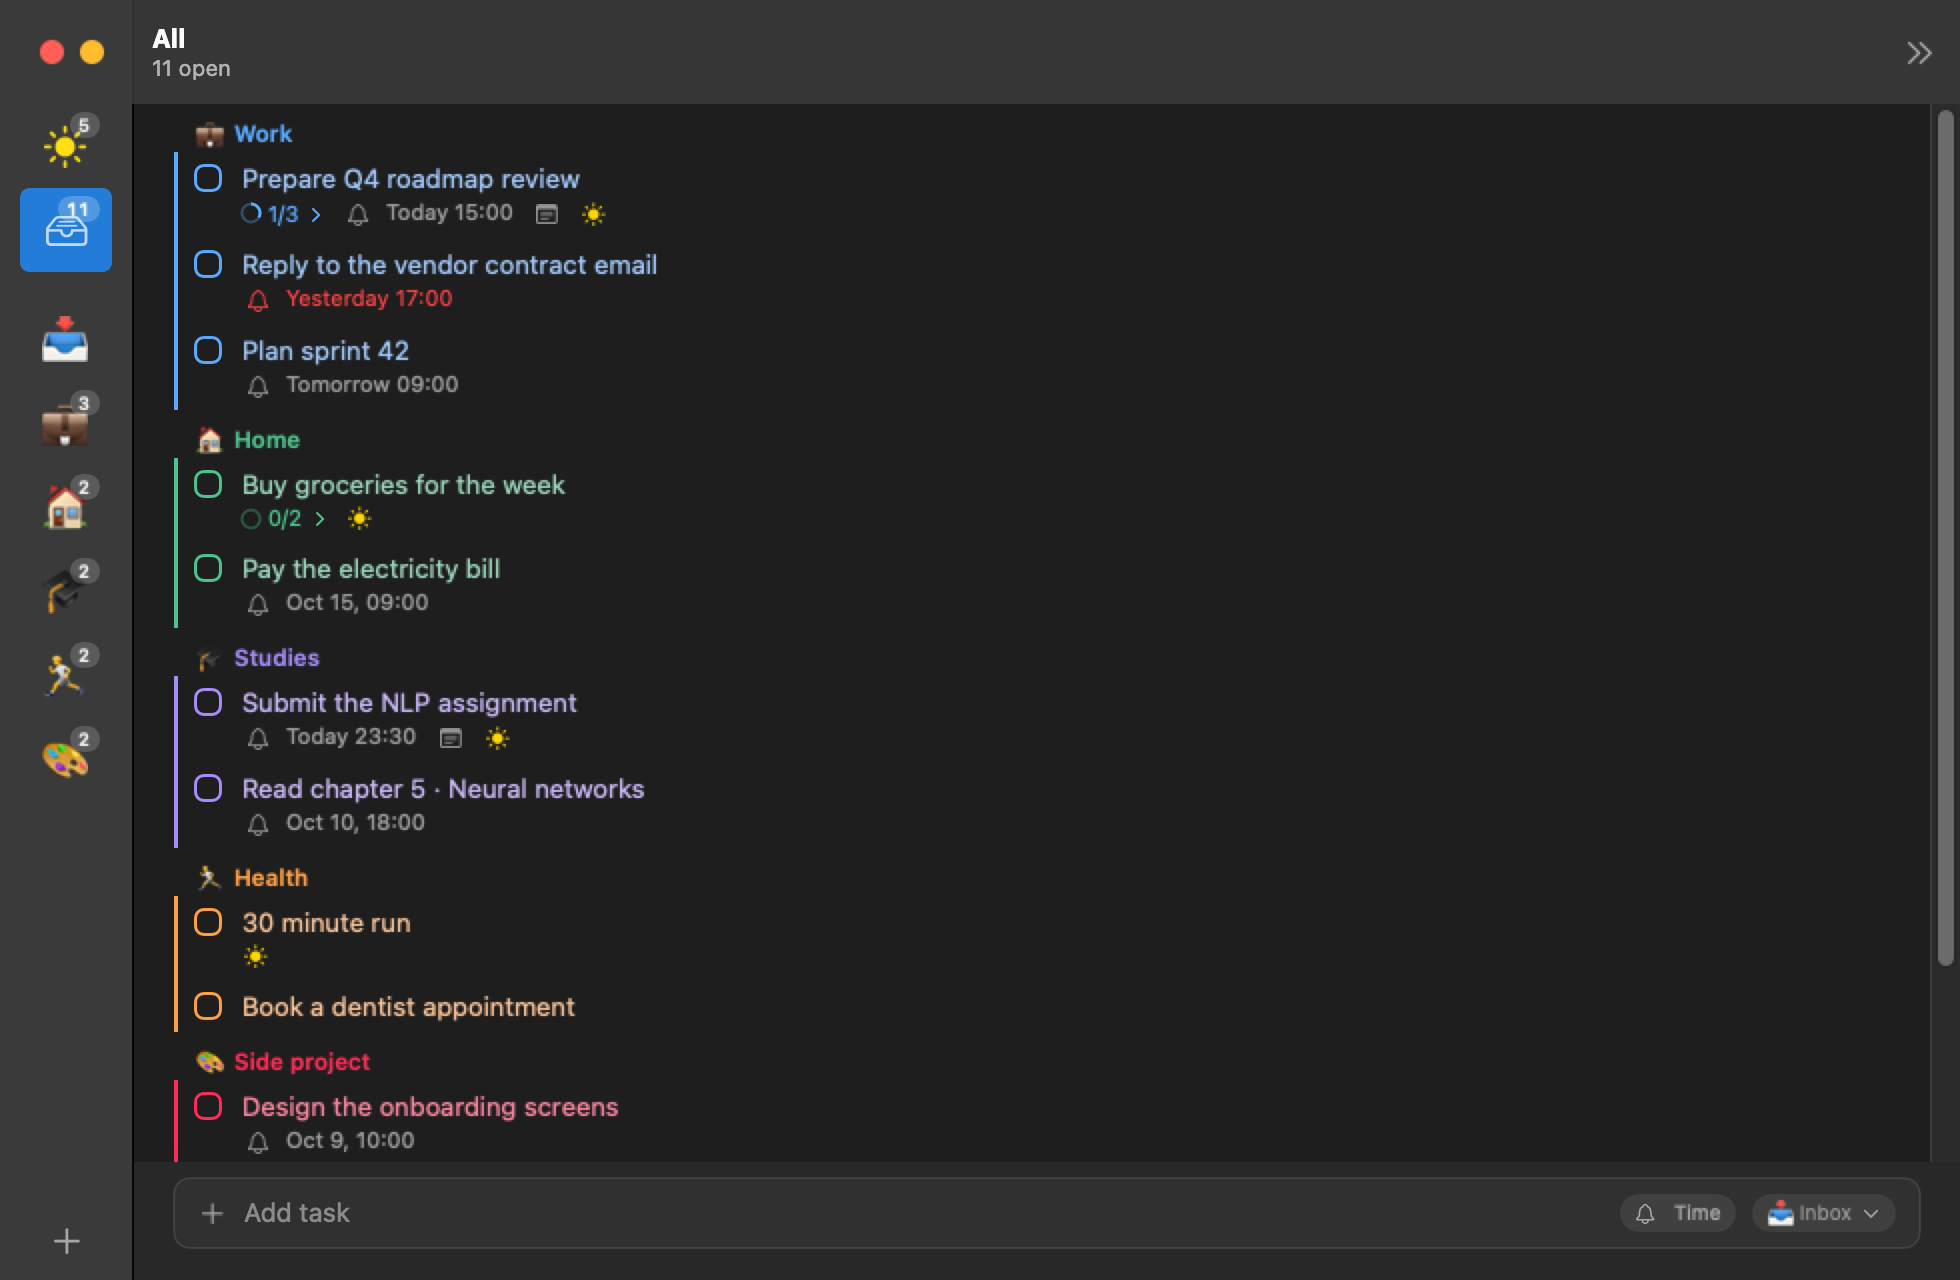
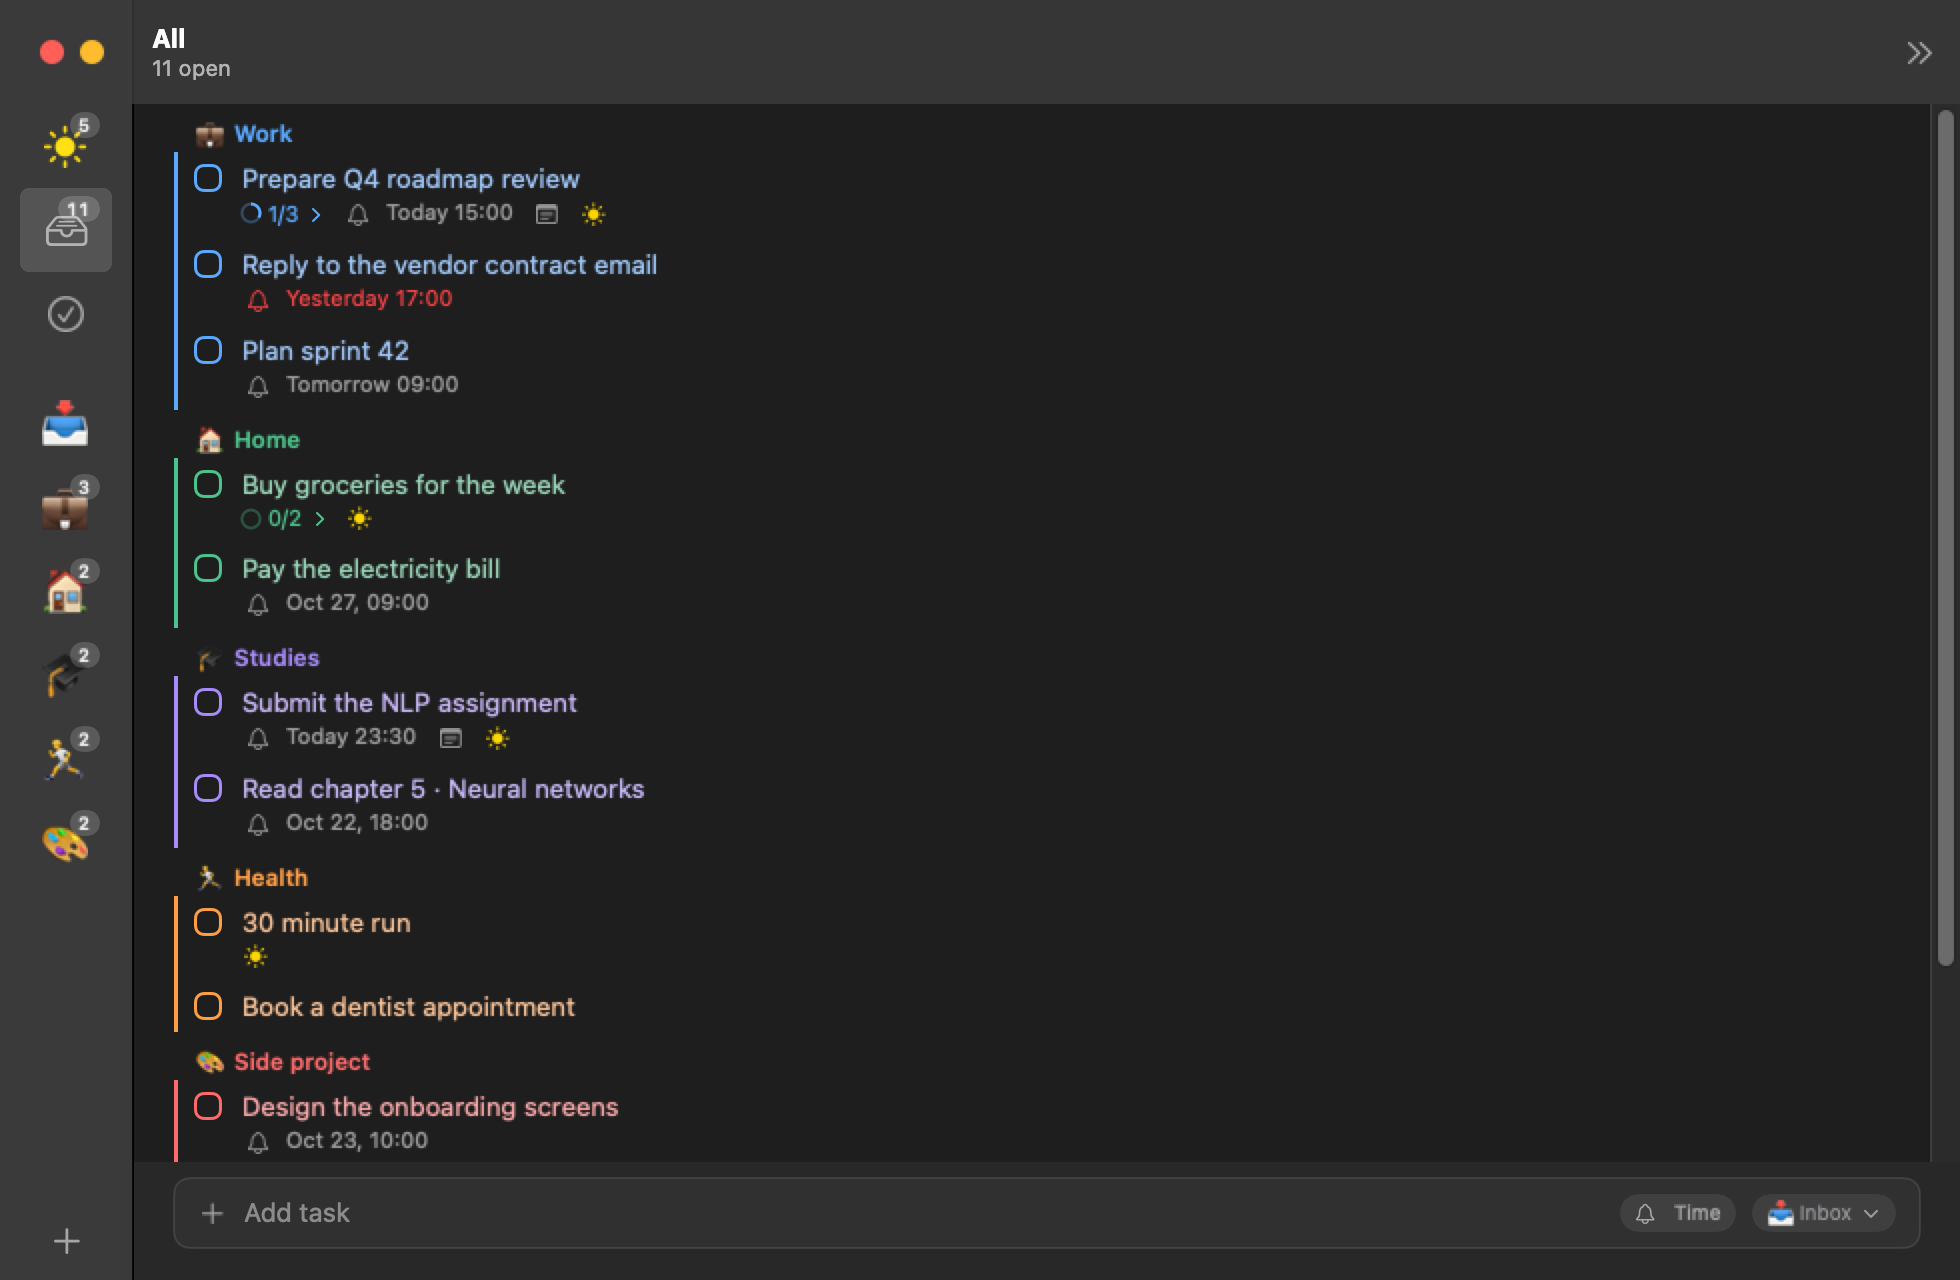
docs: README and screenshots show the Completed view and the ~/Applications install fallback

diff --git a/README.md b/README.md
@@ -18,7 +18,7 @@ Paste this into Terminal:
 curl -fsSL https://raw.githubusercontent.com/josearci/MeToDo/main/install.sh | bash
 ```
 
-It downloads the latest release, puts **MeToDo.app** in your Applications folder and starts it. A ✓ appears in your menu bar.
+It downloads the latest release, puts **MeToDo.app** in your Applications folder (or `~/Applications` if your account isn't an admin) and starts it. A ✓ appears in your menu bar.
 
 - **Don't see the ✓?** macOS hides menu bar icons that don't fit (e.g. behind the notch) or that are turned off in System Settings › Menu Bar. Opening MeToDo from Applications or Spotlight always shows its window, and ⌃⌥M works either way.
 - **Requirements:** macOS 15 or later. Works on Apple Silicon and Intel Macs.
@@ -28,10 +28,11 @@ It downloads the latest release, puts **MeToDo.app** in your Applications folder
 
 **Projects with colors and emoji.** Group tasks into projects, each with an emoji and one of eight preset colors, or any custom color. Task titles and the color bar beside them take the project's color, so you can tell projects apart at a glance.
 
-**Today and All.**
+**Today, All and Completed.**
 - **All** shows everything, grouped by project.
 - **Today** shows tasks due today, tasks that are overdue, and anything you pull in with ☀.
 - When Today is empty, you see **Up next**, so there's always something to pick.
+- **Completed** lists everything you've finished, newest first, including tasks you've cleared.
 
 **Notes and subtasks.** Click a task to expand it. You'll see its notes and its subtasks, with a progress ring such as ◔ 1/3.
 
@@ -64,7 +65,13 @@ It downloads the latest release, puts **MeToDo.app** in your Applications folder
 
 You can also choose the project and time with the chips at the end of the Add field.
 
-**Done stays visible.** Finished tasks stay crossed out at the bottom until you press **Clear done**. Cleared tasks are kept in a history in your data file, ready for stats later: when each was created, completed and due, and how often it was snoozed. **Completed** in the sidebar lists everything you've finished, cleared or not; untick one or click **Reopen** to bring it back.
+**Done stays visible.** Finished tasks stay crossed out at the bottom until you press **Clear done**. Cleared tasks are kept in a history in your data file, ready for stats later: when each was created, completed and due, and how often it was snoozed.
+
+**Reopen anything.** Changed your mind? Open **Completed**, then untick a task or click **Reopen**, and it's back in your lists. Cleared tasks come back with their notes, in their project (or the Inbox if that project was deleted).
+
+<p align="center">
+  <img src="docs/images/completed.png" width="820" alt="Completed view listing finished tasks with their project and completion time">
+</p>
 
 <p align="center">
   <img src="docs/images/project-editor.png" width="380" alt="Project editor with emoji tile, name and color swatches">
